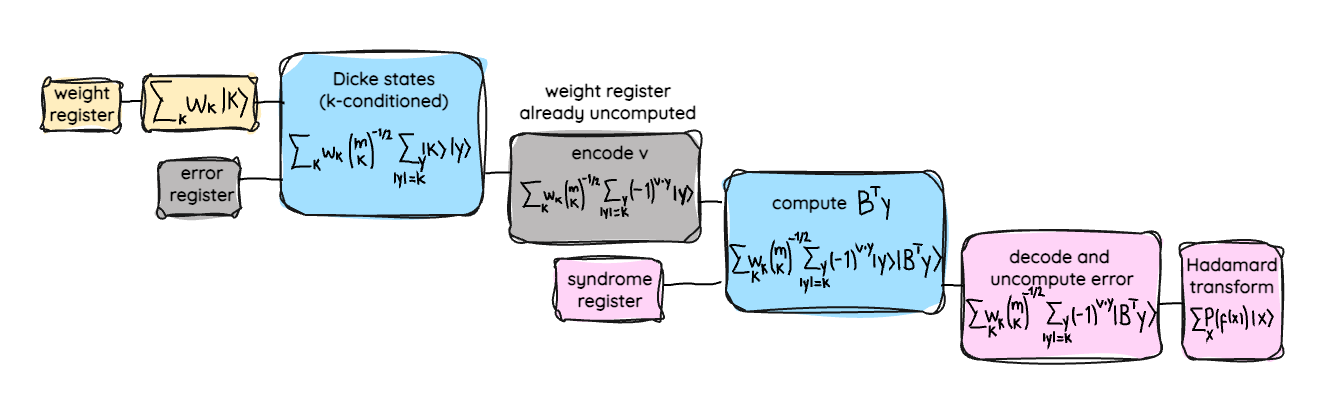
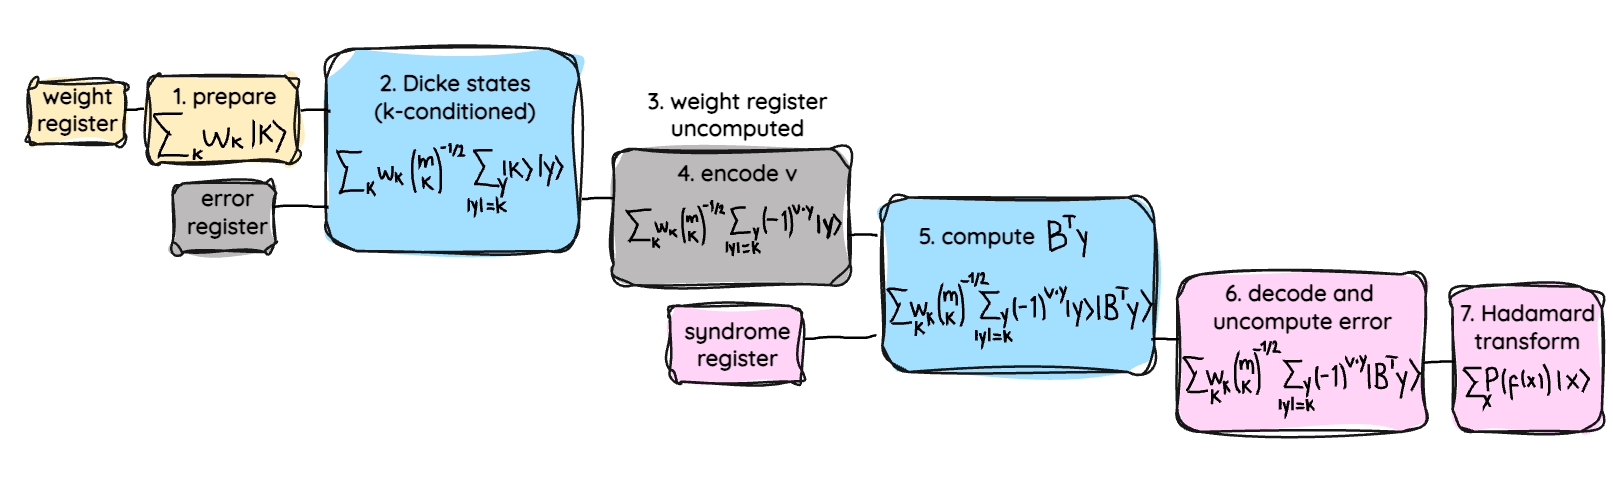
Correcting numbering and adding better image

Changed region(s): [[0.0, 0.0938, 1.0, 0.9375]]

diff --git a/demonstrations_v2/tutorial_dqi/demo.py b/demonstrations_v2/tutorial_dqi/demo.py
@@ -134,18 +134,18 @@ plt.show()
 # 
 #    .. math:: \sum_{k=0}^{\ell} w_k|k\rangle \frac{1}{\sqrt{\binom{m}{k}}}\sum_{\substack{\mathbf{y}\\|\mathbf{y}|=k}} |\mathbf{y}\rangle.
 # 
-# 4. **Uncompute** and discard the weight register.
-# 5. **Encode the vector of constraints:** encode :math:`\mathbf{v}` by imparting a phase
+# 3. **Uncompute** and discard the weight register.
+# 4. **Encode the vector of constraints:** encode :math:`\mathbf{v}` by imparting a phase
 #    :math:`(-1)^{\mathbf{v}\cdot\mathbf{y}}`,
 # 
 #    .. math:: \sum_{k=0}^{\ell} w_k \frac{1}{\sqrt{\binom{m}{k}}}\sum_{\substack{\mathbf{y}\\|\mathbf{y}|=k}} (-1)^{\mathbf{v}\cdot\mathbf{y}} |\mathbf{y}\rangle.
-# 6. **Compute syndrome:** reversibly compute :math:`B^T \mathbf{y}` into the syndrome register,
+# 5. **Compute syndrome:** reversibly compute :math:`B^T \mathbf{y}` into the syndrome register,
 # 
 #    .. math:: \sum_{k=0}^{\ell} w_k \frac{1}{\sqrt{\binom{m}{k}}}\sum_{\substack{\mathbf{y}\\|\mathbf{y}|=k}} (-1)^{\mathbf{v}\cdot\mathbf{y}} |\mathbf{y}\rangle|B^T \mathbf{y}\rangle.
-# 7. **Decode and uncompute:** use the computed value of :math:`B^T \mathbf{y}` to find
+# 6. **Decode and uncompute:** use the computed value of :math:`B^T \mathbf{y}` to find
 #    :math:`\mathbf{y}` and uncompute the error register. This results in the Hadamard transform of
 #    the desired state.
-# 8. **Hadamard transform and sample:** apply the Hadamard transform to obtain :math:`|P(f)\rangle`
+# 7. **Hadamard transform and sample:** apply the Hadamard transform to obtain :math:`|P(f)\rangle`
 #    and sample from it to get solutions.
 #
 # .. figure:: ../_static/demonstration_assets/DQI/algo_DQI.png
